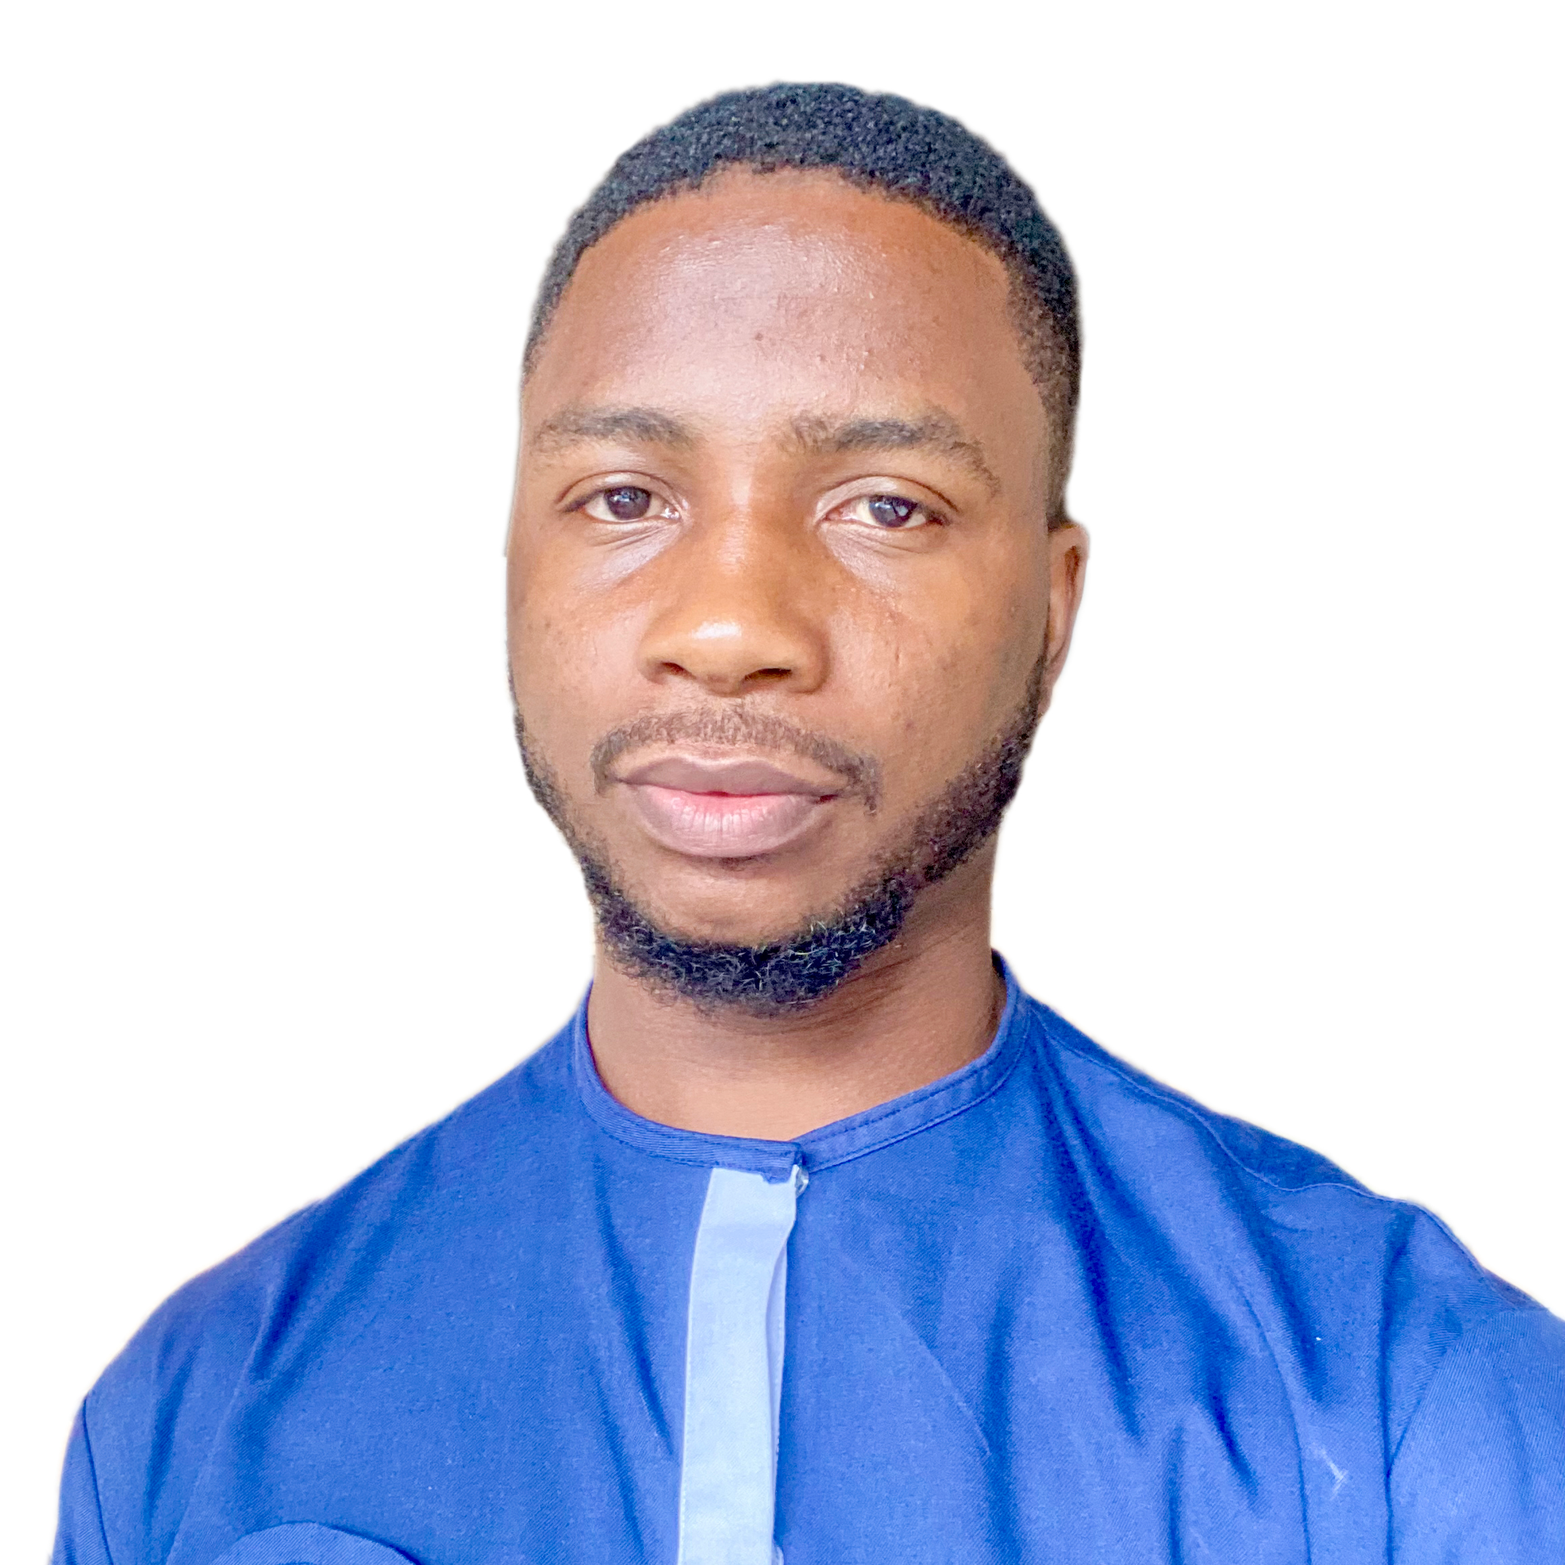
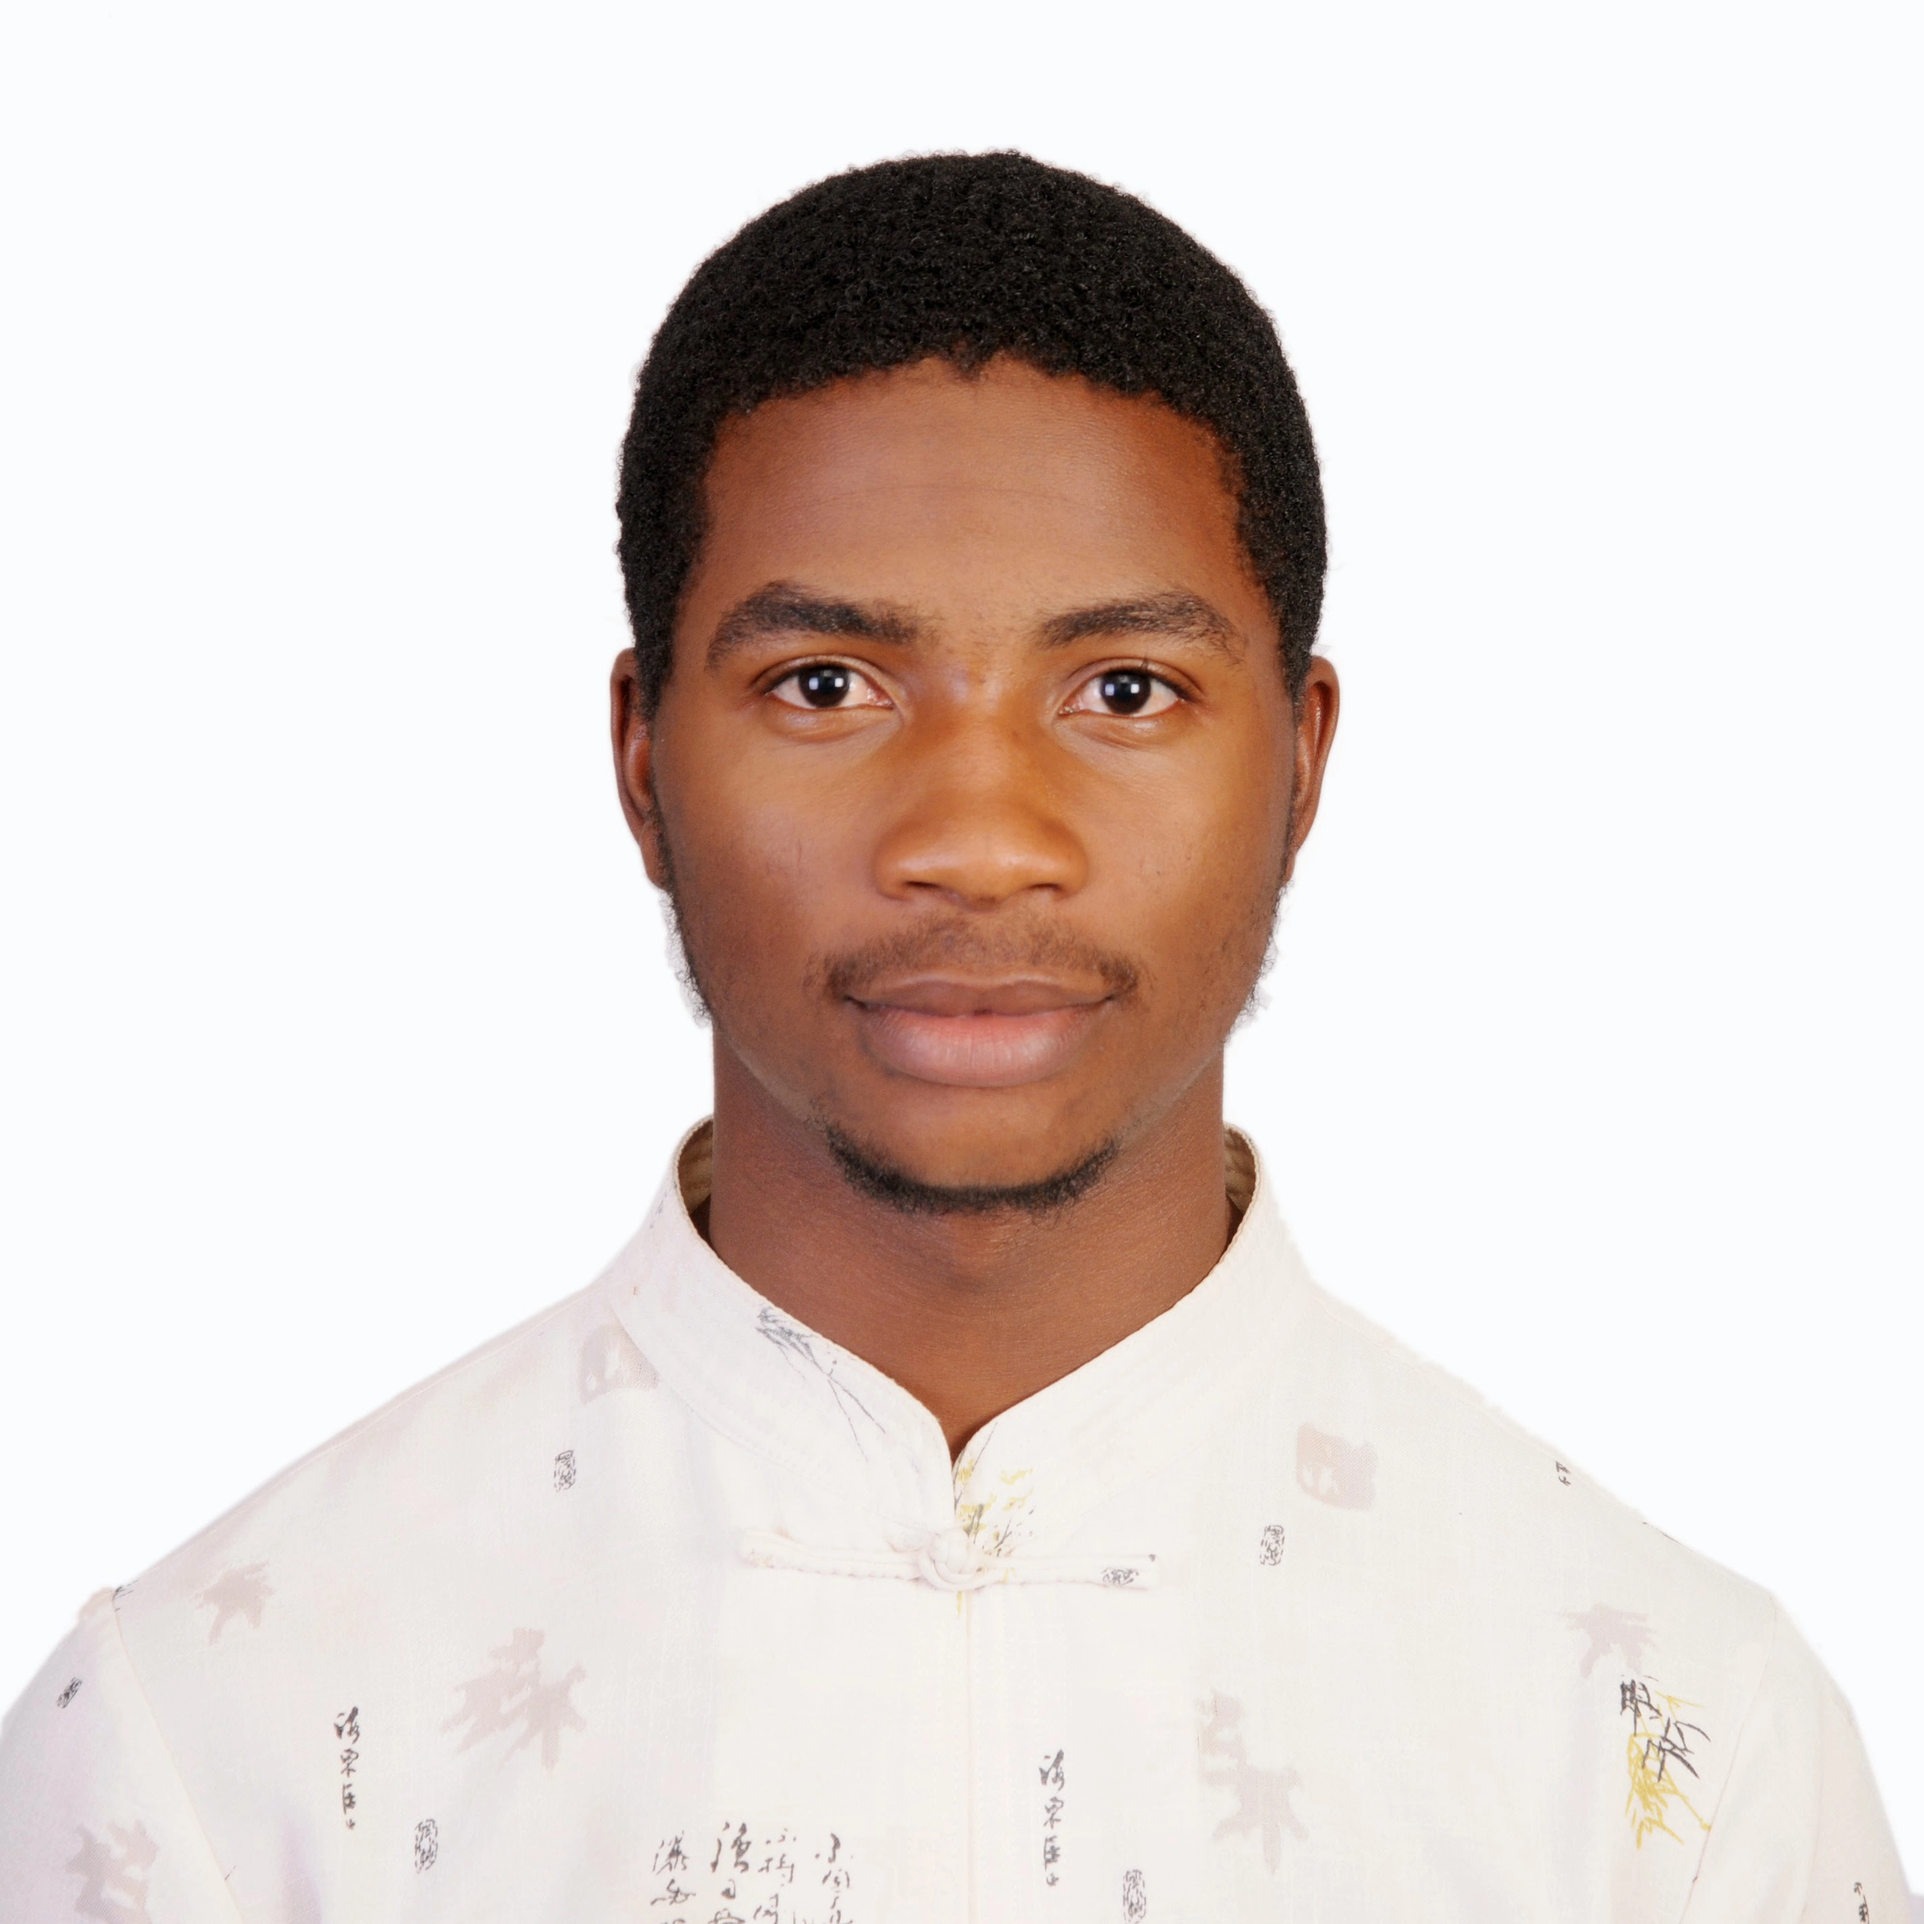
Adjust text

diff --git a/index.html b/index.html
@@ -60,21 +60,18 @@
                             <p>Next Course starts on the <span>4th October 2024</span></p>
                         </div>
                     </div>
+                    <div class="p-position text-light">
+                        <div class="">
+                            <p class="p-size">Registration ongoing for all Courses</p>
+                            <h3>Part Time/Beginners at <span>&#8358;</span>13,450/hr. <br>Monday/Thursday 4pm-6pm. </h3>
+                            <p>Registration ends 4th October</p>
+                            <div class="d-grid gap-2 col-4 mx-auto">
+                                <button class="btn btn-primary" type="button">Register Now</button>
+                            </div>
+                        </div>
+                    </div>
 
                     <div class="carousel-caption d-md-block d-xs-block">
-                        <div class="p-position text-light">
-                            <div class="">
-                                <p class="p-size">Registration ongoing for all Courses</p>
-                                <h3>Part Time/Beginners at <span>&#8358;</span>13,450/hr <br>Monday/Thursday 4pm-6pm </h3>
-                                <p>Registration ends 4th October</p>
-                                <div class="d-grid gap-2 col-4 mx-auto">
-                                    <button class="btn btn-primary" type="button">Register Now</button>
-                                </div>
-                            </div>
-                            <br>
-                            <br>
-                            <br>
-                        </div>
                         <p class="p-size ">Guten Tag! Willkommen bei der</p>
                         <h1>Prima German Language School in Abuja!</h1>
                         <!--<a href=" "><button type="button " class="btn btn-warning ">APPLY NOW</button></a>-->
@@ -207,7 +204,7 @@
 
                 </tbody>
             </table>
-            <p class="p-size">Special Request Information and Assesment Contact The Admin Office</p>
+            <p class="p-size">Interview to taylor your course to your individual language level, contact the Admin Office</p>
         </div>
     </section>
     <!-- about-us -->
